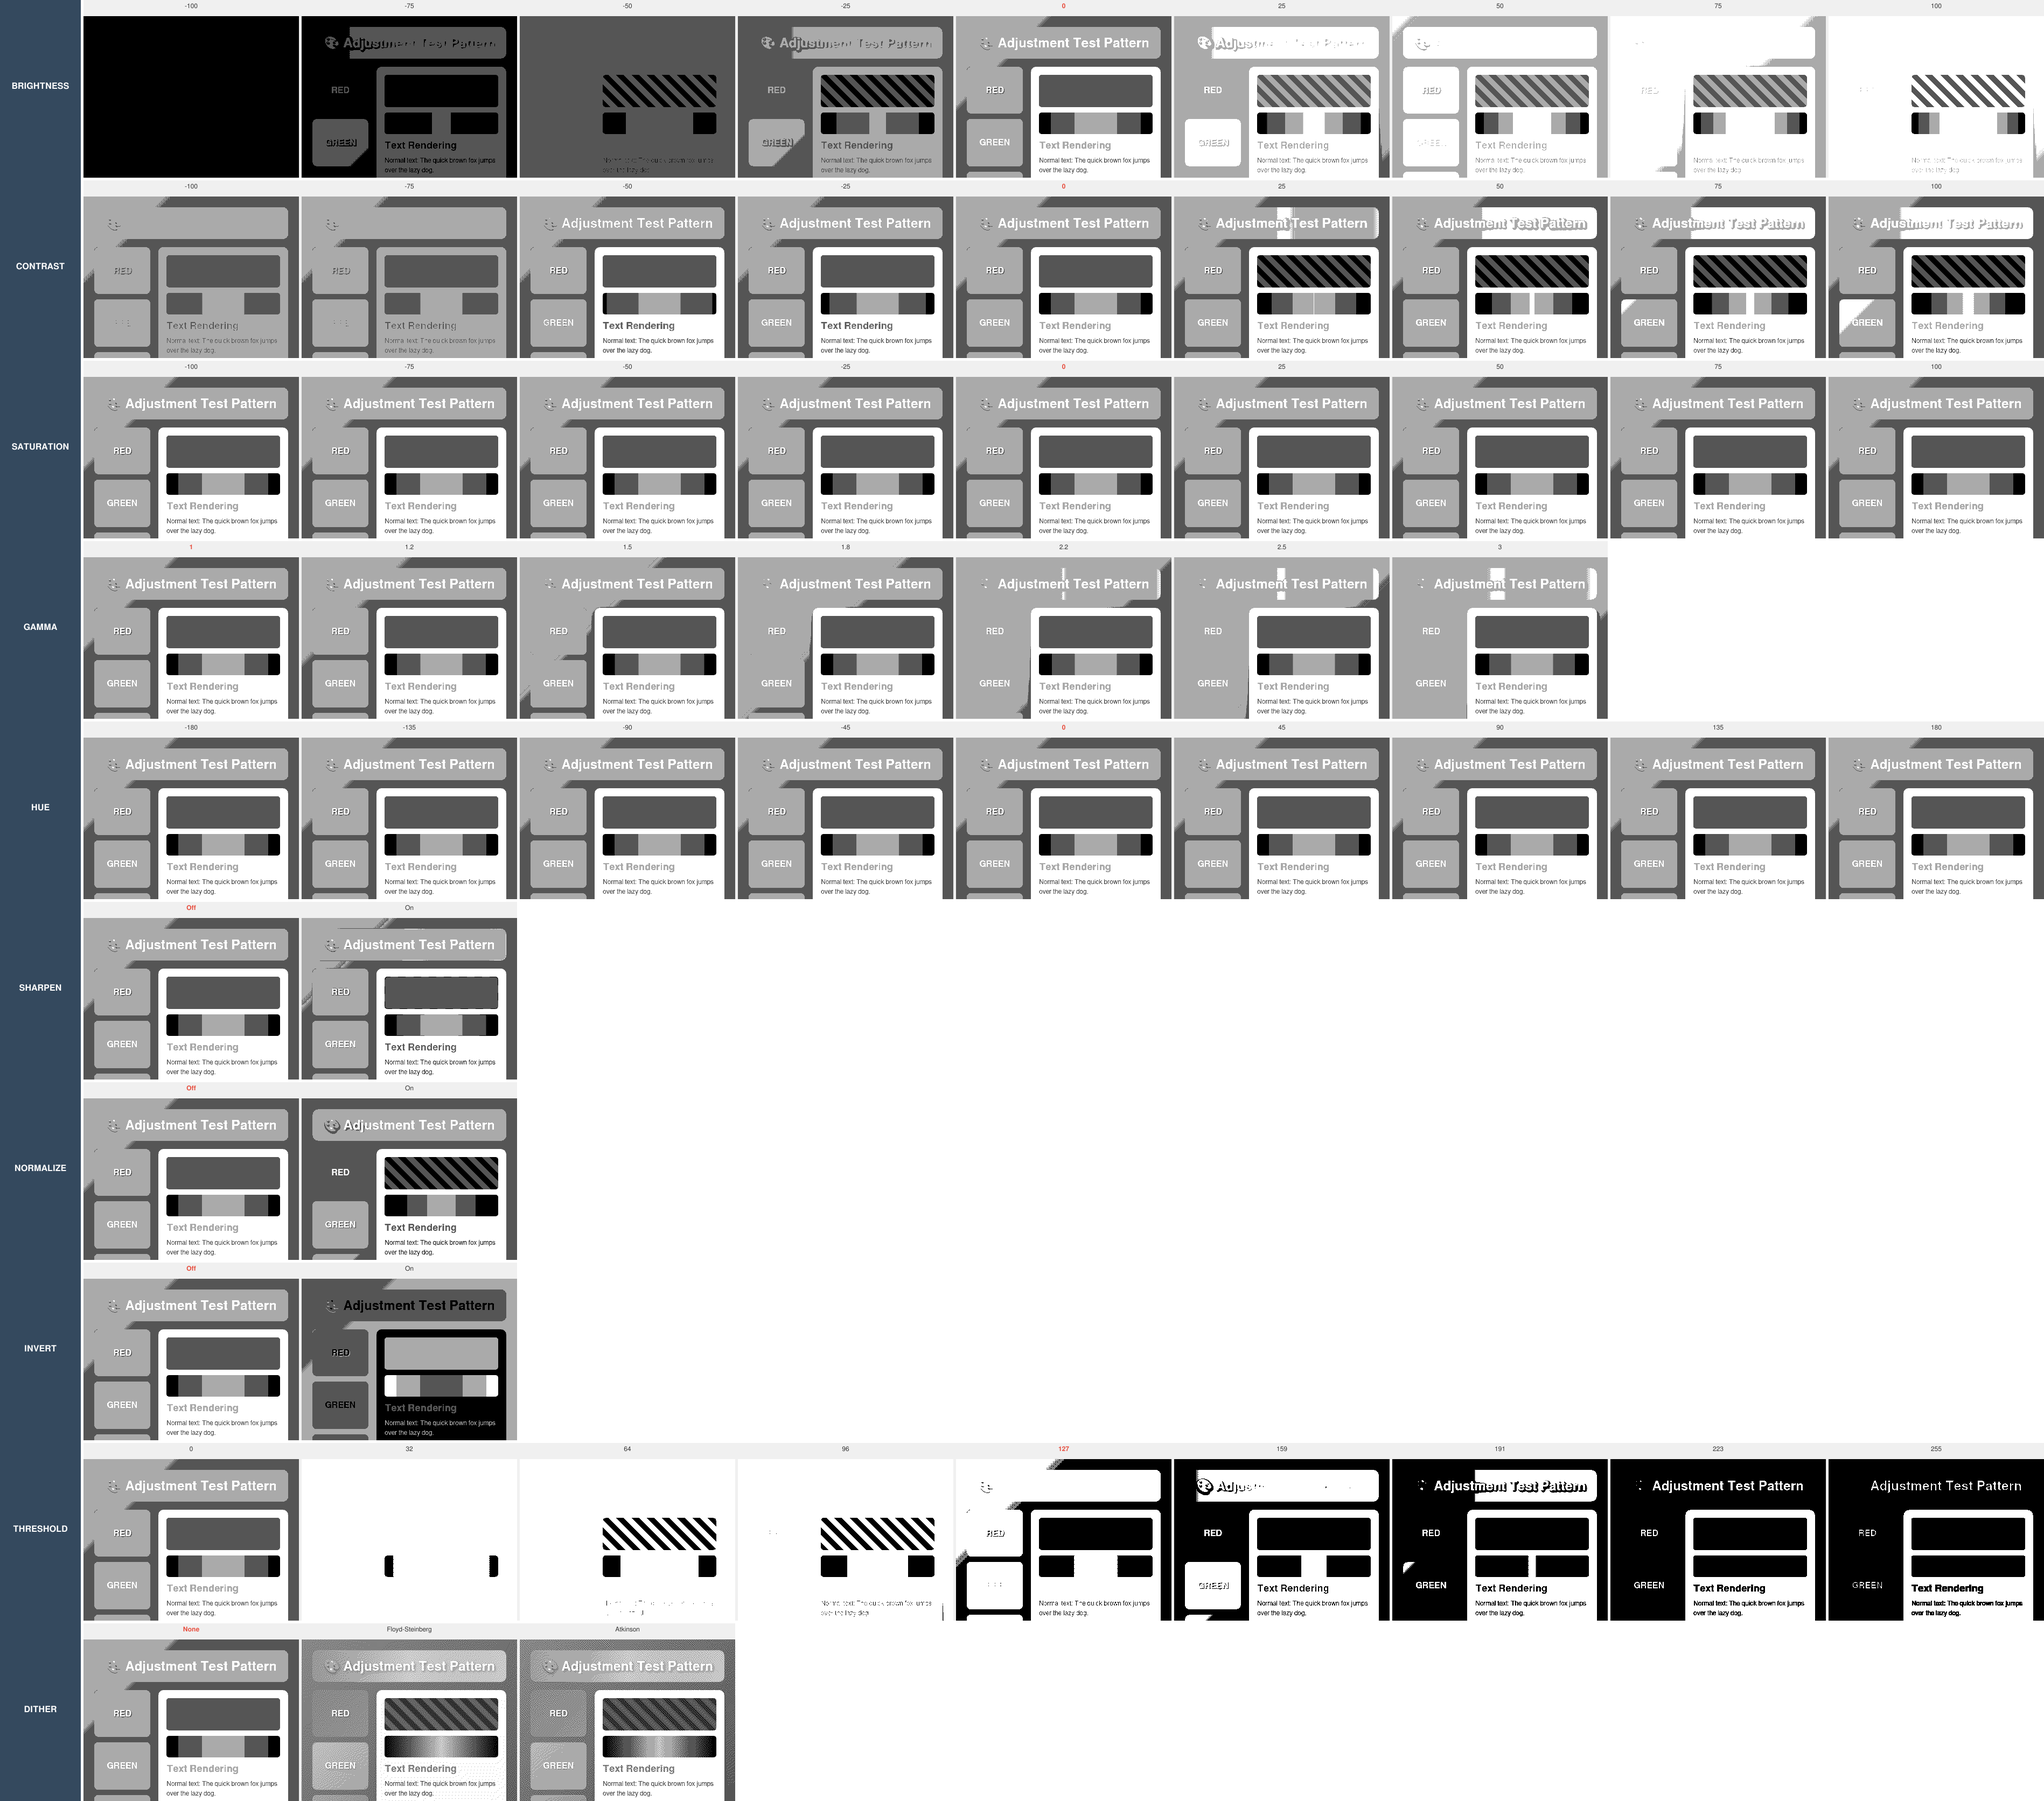
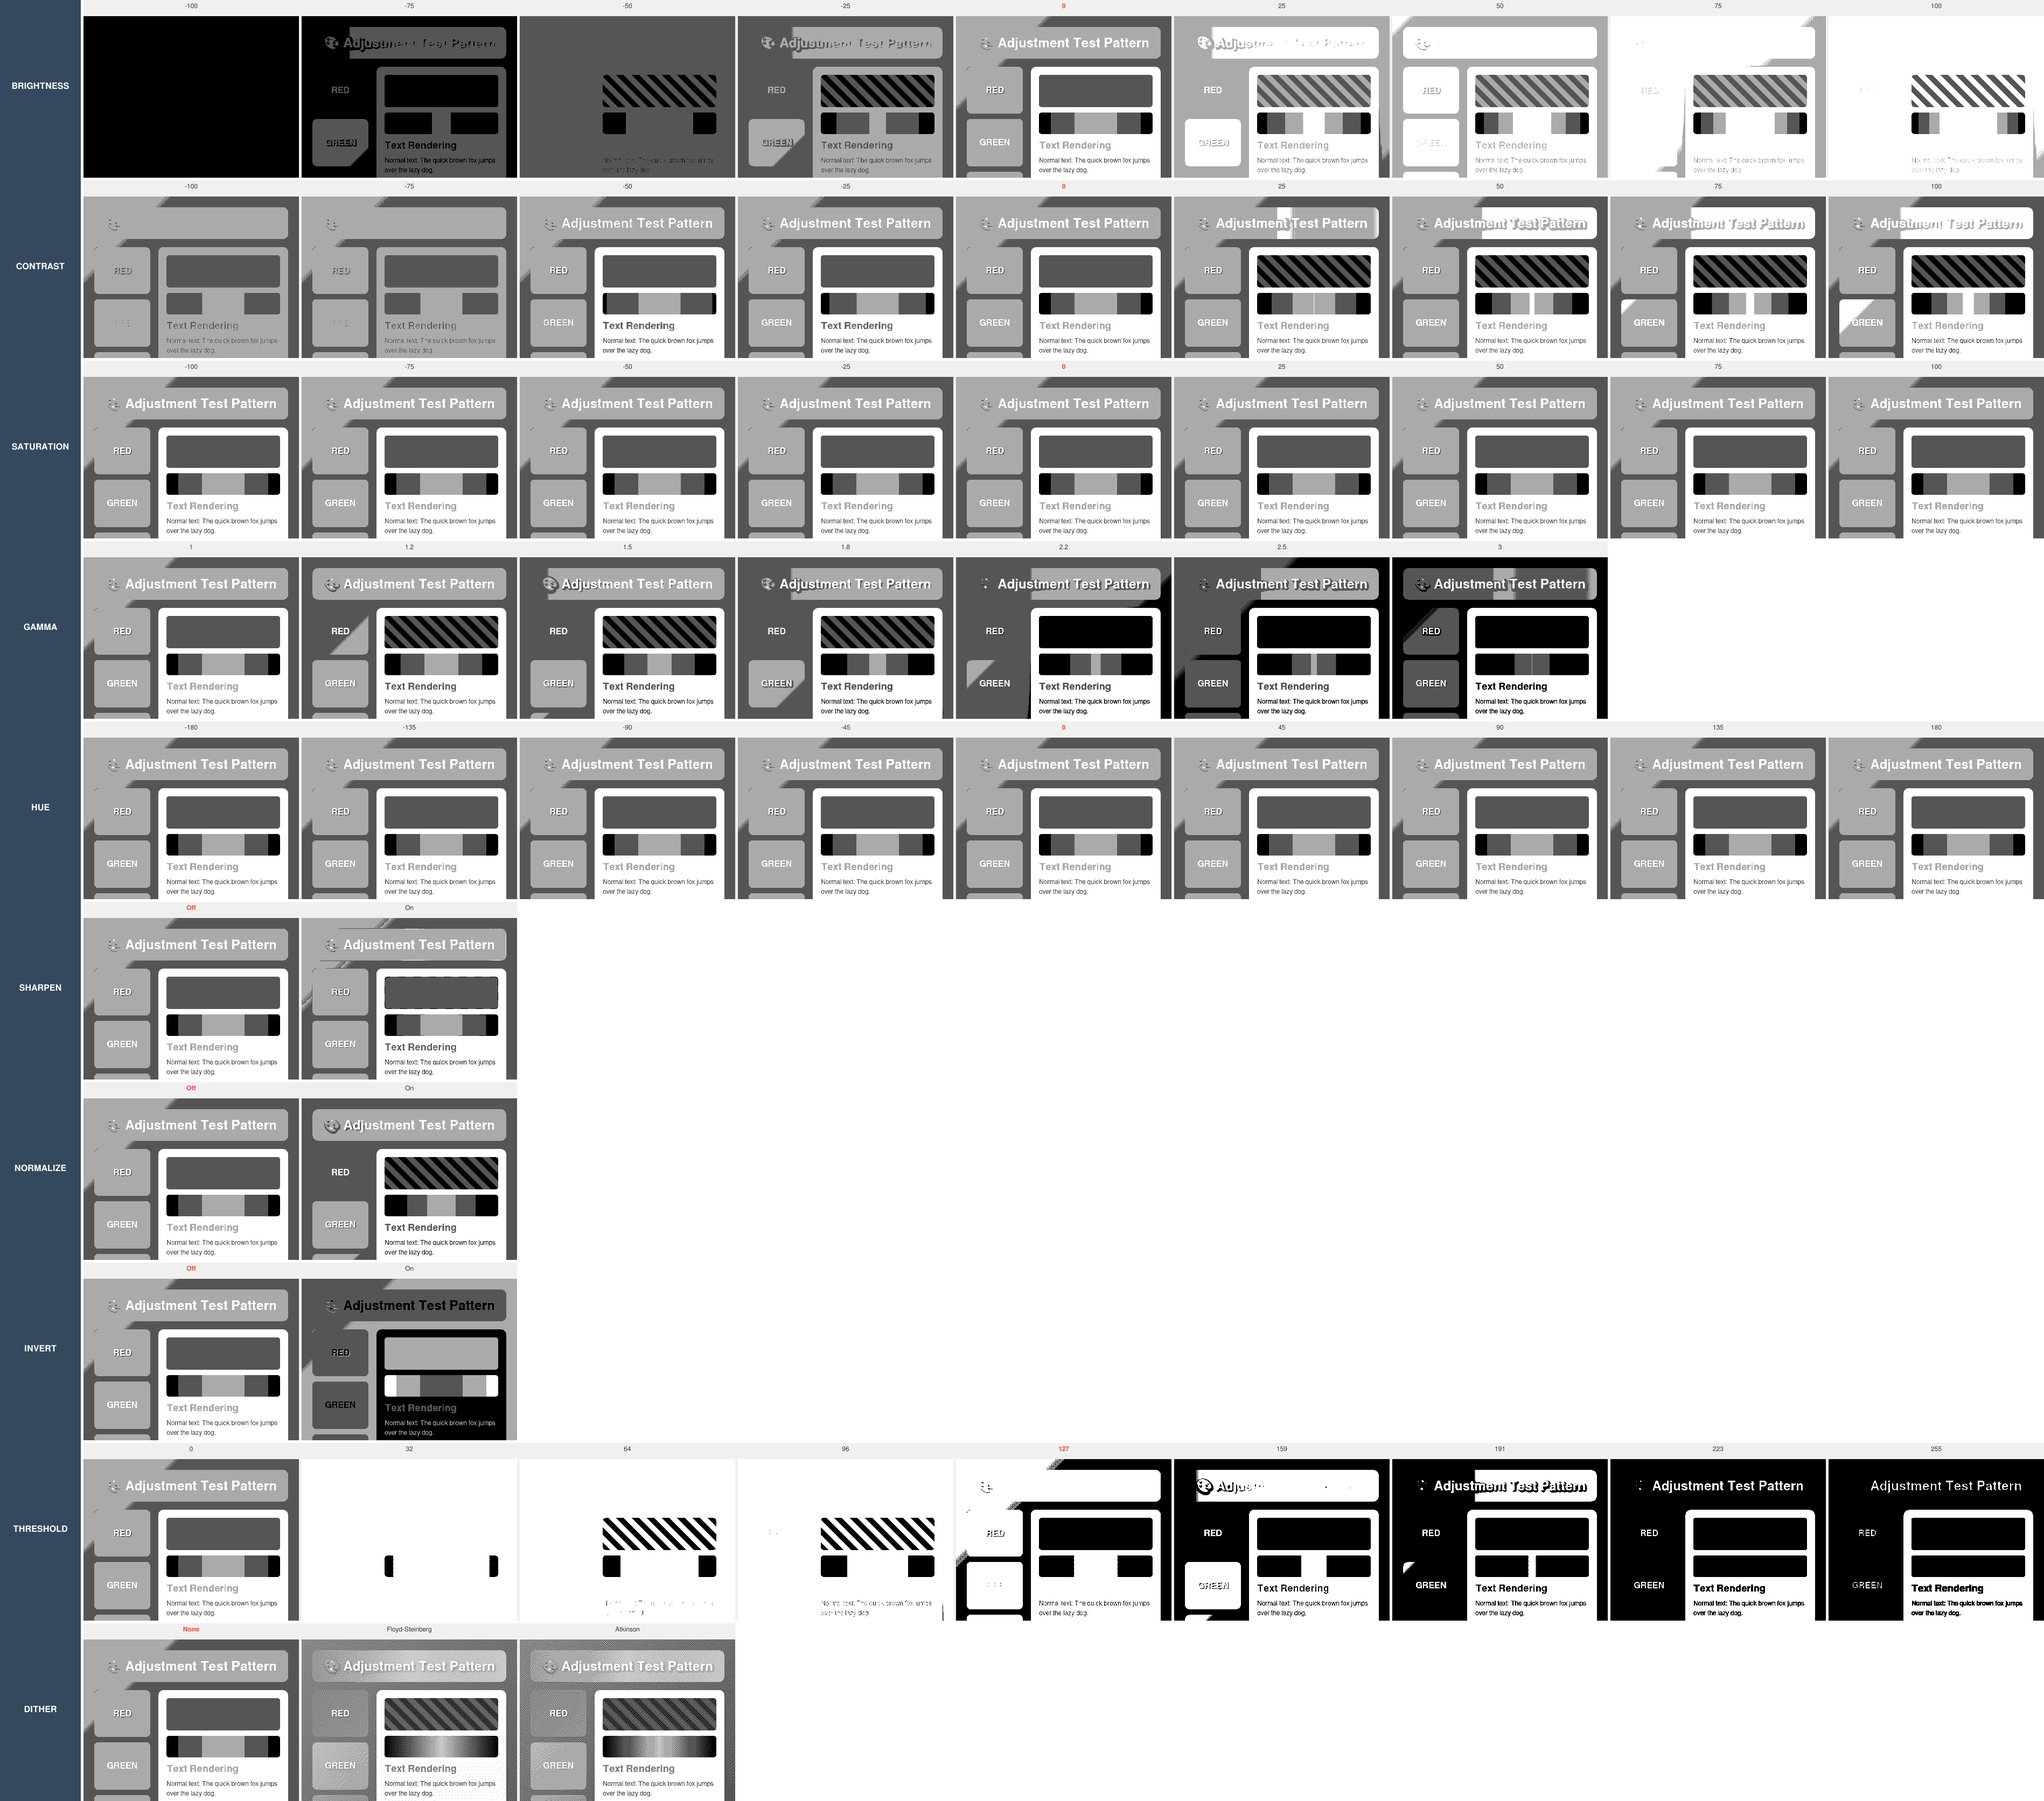
Fix levels gamma correction to match Paint.NET behavior
- Replace Sharp's gamma() function with LUT-based pixel manipulation
- Sharp's gamma() is designed for resize operations and doesn't apply simple value^gamma transformation
- Implement createGammaLUT() to generate 256-element lookup table for any gamma 0.1-8.0
- Implement applyLUT() to apply lookup table to pixel data (skips alpha channel)
- Update applyLevelsAdjustment() to use LUT-based gamma correction
- Make applyLevelsAdjustment() async to handle raw pixel data extraction
- Update applyAdjustments() and convertImage() to handle async levels adjustment
- Regenerate all documentation matrix images with correct gamma behavior
- All 256 tests pass

Changed region(s): [[0.1244, 0.3109, 0.8084, 0.4042]]

diff --git a/calendar2image/src/image/converter.js b/calendar2image/src/image/converter.js
@@ -158,6 +158,36 @@ function applyAtkinsonDither(data, width, height, channels, palette) {
 }
 
 /**
+ * Create a gamma correction lookup table (LUT)
+ * @param {number} gamma - Gamma value (0.1-8.0)
+ * @returns {Uint8Array} 256-element lookup table
+ */
+function createGammaLUT(gamma) {
+  const lut = new Uint8Array(256);
+  for (let i = 0; i < 256; i++) {
+    lut[i] = Math.round(255 * Math.pow(i / 255, gamma));
+  }
+  return lut;
+}
+
+/**
+ * Apply lookup table to image data
+ * @param {Buffer} data - Raw pixel data
+ * @param {Uint8Array} lut - Lookup table
+ * @param {number} channels - Number of channels (3 or 4)
+ * @returns {Buffer} Modified pixel data
+ */
+function applyLUT(data, lut, channels) {
+  const result = Buffer.from(data);
+  for (let i = 0; i < result.length; i++) {
+    // Skip alpha channel if present (every 4th byte when channels=4)
+    if (channels === 4 && (i + 1) % 4 === 0) continue;
+    result[i] = lut[result[i]];
+  }
+  return result;
+}
+
+/**
  * Apply Paint.NET-style levels adjustment
  * @param {Object} pipeline - Sharp pipeline instance
  * @param {Object} config - Levels configuration
@@ -166,9 +196,9 @@ function applyAtkinsonDither(data, width, height, channels, palette) {
  * @param {number} config.gamma - Gamma correction (0.1-8.0)
  * @param {number} config.outputBlack - Output black point (0-255)
  * @param {number} config.outputWhite - Output white point (0-255)
- * @returns {Object} Modified Sharp pipeline
+ * @returns {Promise<Object>} Modified Sharp pipeline
  */
-function applyLevelsAdjustment(pipeline, config) {
+async function applyLevelsAdjustment(pipeline, config) {
   const {
     inputBlack = 0,
     inputWhite = 255,
@@ -177,61 +207,58 @@ function applyLevelsAdjustment(pipeline, config) {
     outputWhite = 255
   } = config;
 
+  // If no adjustments needed, return pipeline unchanged
+  if (inputBlack === 0 && inputWhite === 255 && gamma === 1.0 && outputBlack === 0 && outputWhite === 255) {
+    return pipeline;
+  }
+
+  // Get raw pixel data
+  const { data, info } = await pipeline.raw().toBuffer({ resolveWithObject: true });
+  let result = Buffer.from(data);
+
   // Step 1: Map input range [inputBlack, inputWhite] to [0, 255]
-  // This stretches or compresses the input histogram
   if (inputBlack !== 0 || inputWhite !== 255) {
-    // Avoid division by zero
     const inputRange = inputWhite - inputBlack;
     if (Math.abs(inputRange) < 0.01) {
-      // If input range is too small, skip input mapping
       console.warn('Levels adjustment: inputBlack and inputWhite are too close, skipping input mapping');
     } else {
-      // Formula: output = (input - inputBlack) * (255 / (inputWhite - inputBlack))
-      // Using Sharp's linear: a * input + b
-      const a = 255 / inputRange;
-      const b = -inputBlack * a;
-      pipeline = pipeline.linear(a, b);
-      
-      // Clamp to [0, 255] range
-      pipeline = pipeline.linear(1, 0); // This effectively clamps via Sharp's internal processing
+      for (let i = 0; i < result.length; i++) {
+        // Skip alpha channel
+        if (info.channels === 4 && (i + 1) % 4 === 0) continue;
+        
+        const normalized = ((result[i] - inputBlack) / inputRange) * 255;
+        result[i] = Math.max(0, Math.min(255, Math.round(normalized)));
+      }
     }
   }
 
-  // Step 2: Apply gamma correction (non-linear mid-tone adjustment)
-  // Sharp's gamma() requires values >= 1.0 and <= 3.0
-  // For gamma < 1.0 (darkening mid-tones), invert → apply 1/gamma → invert
-  // For gamma > 3.0, clamp to 3.0 with warning
-  if (gamma !== undefined && gamma !== 1.0) {
-    if (gamma < 1.0) {
-      // For gamma < 1.0: invert, apply inverse gamma (clamped to 3.0), invert back
-      // This darkens mid-tones
-      const inverseGamma = Math.min(1.0 / Math.max(gamma, 0.1), 3.0);
-      pipeline = pipeline
-        .negate()
-        .gamma(inverseGamma)
-        .negate();
-    } else if (gamma > 3.0) {
-      // For gamma > 3.0: use maximum of 3.0 (Sharp's limitation)
-      console.warn(`Levels adjustment: gamma ${gamma} exceeds Sharp's maximum of 3.0, clamping to 3.0`);
-      pipeline = pipeline.gamma(3.0);
-    } else {
-      // Standard gamma correction for 1.0 <= gamma <= 3.0
-      pipeline = pipeline.gamma(gamma);
-    }
+  // Step 2: Apply gamma correction using LUT
+  // This correctly implements value^gamma for any gamma value (0.1 to 8.0)
+  if (gamma !== 1.0) {
+    const lut = createGammaLUT(gamma);
+    result = applyLUT(result, lut, info.channels);
   }
 
   // Step 3: Map output range from [0, 255] to [outputBlack, outputWhite]
-  // This compresses the output histogram into the desired range
   if (outputBlack !== 0 || outputWhite !== 255) {
-    // Formula: output = input * ((outputWhite - outputBlack) / 255) + outputBlack
-    // Using Sharp's linear: a * input + b
     const outputRange = outputWhite - outputBlack;
-    const a = outputRange / 255;
-    const b = outputBlack;
-    pipeline = pipeline.linear(a, b);
+    for (let i = 0; i < result.length; i++) {
+      // Skip alpha channel
+      if (info.channels === 4 && (i + 1) % 4 === 0) continue;
+      
+      const mapped = outputBlack + (result[i] / 255) * outputRange;
+      result[i] = Math.max(0, Math.min(255, Math.round(mapped)));
+    }
   }
 
-  return pipeline;
+  // Create new pipeline from processed data
+  return sharp(result, {
+    raw: {
+      width: info.width,
+      height: info.height,
+      channels: info.channels
+    }
+  });
 }
 
 /**
@@ -239,9 +266,9 @@ function applyLevelsAdjustment(pipeline, config) {
  * @param {Object} pipeline - Sharp pipeline instance
  * @param {Object} adjustments - Adjustment parameters
  * @param {boolean} isGrayscale - Whether image is grayscale
- * @returns {Object} Modified Sharp pipeline
+ * @returns {Promise<Object>} Modified Sharp pipeline
  */
-function applyAdjustments(pipeline, adjustments, isGrayscale) {
+async function applyAdjustments(pipeline, adjustments, isGrayscale) {
   if (!adjustments || Object.keys(adjustments).length === 0) {
     return pipeline;
   }
@@ -261,8 +288,8 @@ function applyAdjustments(pipeline, adjustments, isGrayscale) {
       levelsConfig.gamma = adjustments.gamma;
     }
     
-    // Apply levels adjustment (with defaults handled inside applyLevelsAdjustment)
-    pipeline = applyLevelsAdjustment(pipeline, levelsConfig);
+    // Apply levels adjustment (now async, returns new pipeline)
+    pipeline = await applyLevelsAdjustment(pipeline, levelsConfig);
   }
   
   // 3. Brightness (via modulate)
@@ -349,7 +376,7 @@ async function convertImage(imageBuffer, options = {}) {
 
     // Apply adjustments (after rotation, before quantization)
     if (adjustments) {
-      pipeline = applyAdjustments(pipeline, adjustments, grayscale);
+      pipeline = await applyAdjustments(pipeline, adjustments, grayscale);
     }
 
     // Determine if dithering is requested

diff --git a/calendar2image/CHANGELOG.md b/calendar2image/CHANGELOG.md
@@ -1,5 +1,20 @@
 # Changelog
 
+## [0.12.1] - 2025-11-11
+
+### Fixed
+- **Levels Gamma Correction** - Fixed gamma correction to match Paint.NET behavior
+  - Replaced Sharp's `gamma()` function with LUT-based pixel manipulation
+  - Sharp's `gamma()` is designed for resize operations and doesn't apply simple value^gamma transformation
+  - Implemented `createGammaLUT()` to generate 256-element lookup table for any gamma 0.1-8.0
+  - Implemented `applyLUT()` to apply lookup table to pixel data (skips alpha channel)
+  - Gamma correction now produces mathematically correct output matching Paint.NET
+  - All 256 tests pass with the corrected implementation
+  - Regenerated all documentation matrix images with correct gamma behavior
+
+### Technical Details
+Sharp's built-in `gamma()` function is optimized for image resize operations and doesn't perform standalone gamma correction as expected. It also clamps values above 3.0. The fix implements a lookup table (LUT) approach that correctly applies the formula: `output = 255 * (input/255)^gamma` for each pixel value, matching Paint.NET's Levels adjustment behavior exactly.
+
 ## [0.12.0] - 2025-11-11
 
 ### Added
